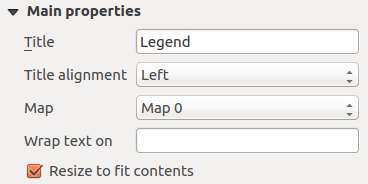
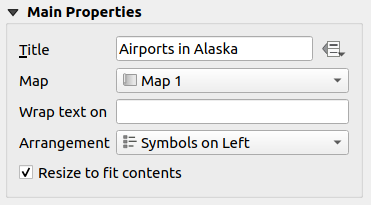
Add legend item new variables and update screenshots

diff --git a/source/docs/user_manual/working_with_vector/expression.rst b/source/docs/user_manual/working_with_vector/expression.rst
@@ -1142,6 +1142,13 @@ To use these functions in an expression, they should be preceded by @ character
    "layout_page", "Returns the page number of the current item in the layout"
    "layout_pageheight", "Returns the active page height in the layout (in mm)"
    "layout_pagewidth", "Returns the active page width in the layout (in mm)"
+   "legend_column_count |36|", "Returns the number of column in the legend"
+   "legend_filter_by_map |36|", "Indicates if the content of the legend is
+   filtered by the map"
+   "legend_filter_out_atlas |36|", "Indicates if the atlas is filtered out of the legend"
+   "legend_split_layers |36|", "Indicates if layers can be split in the legend"
+   "legend_title |36|", "Returns the title of the legend"
+   "legend_wrap_string |36|", "Returns the character(s) used to wrap the legend text"
    "map_crs", "Returns the Coordinate reference system of the current map"
    "map_crs_acronym |36|", "Returns the acronym of the Coordinate reference
    system of the current map"

diff --git a/source/docs/user_manual/print_composer/composer_items/composer_legend.rst b/source/docs/user_manual/print_composer/composer_items/composer_legend.rst
@@ -52,6 +52,11 @@ In Main properties you can:
 * Choose which :guilabel:`Map` item the current legend will refer to.
   By default, the map over which the legend item is drawn is picked. If none,
   then it falls back to the :ref:`reference map <reference_map>`.
+  
+  .. note:: :ref:`Variables <variables_functions>` of the linked map item
+   (@map_id, @map_scale, @map_extent...) are also accessible from data-defined
+   properties of the legend.
+
 * Wrap the text of the legend on a given character: each time the character
   appears, it's replaced with a line break;
 * Set the symbols and text placement in the legend: the :guilabel:`Arrangement`
